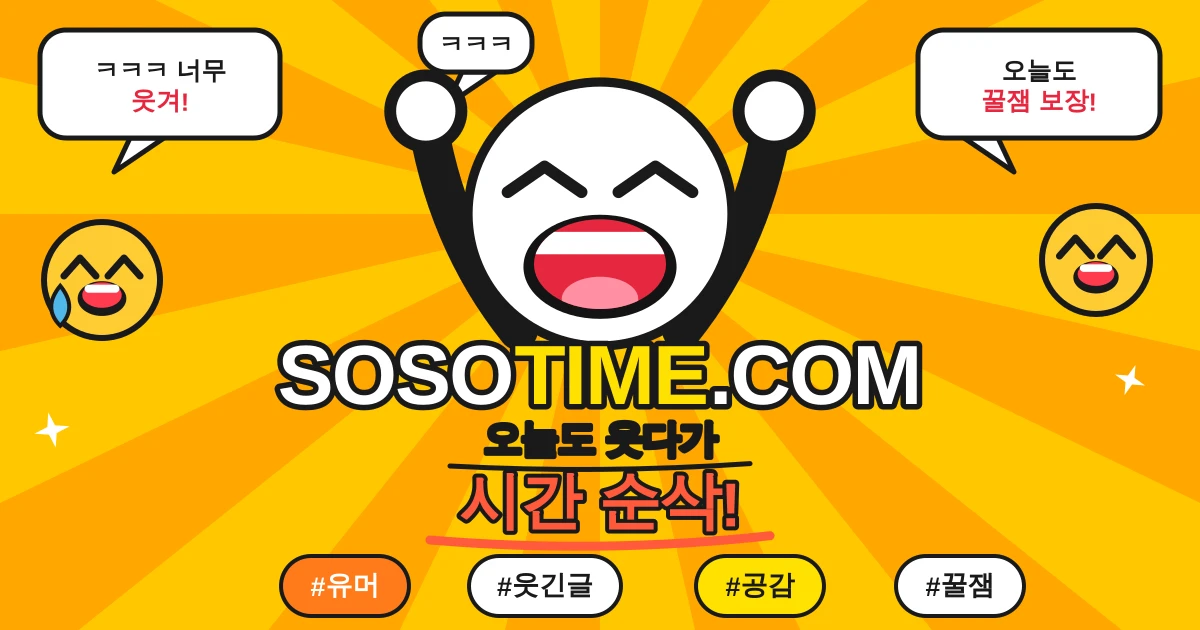
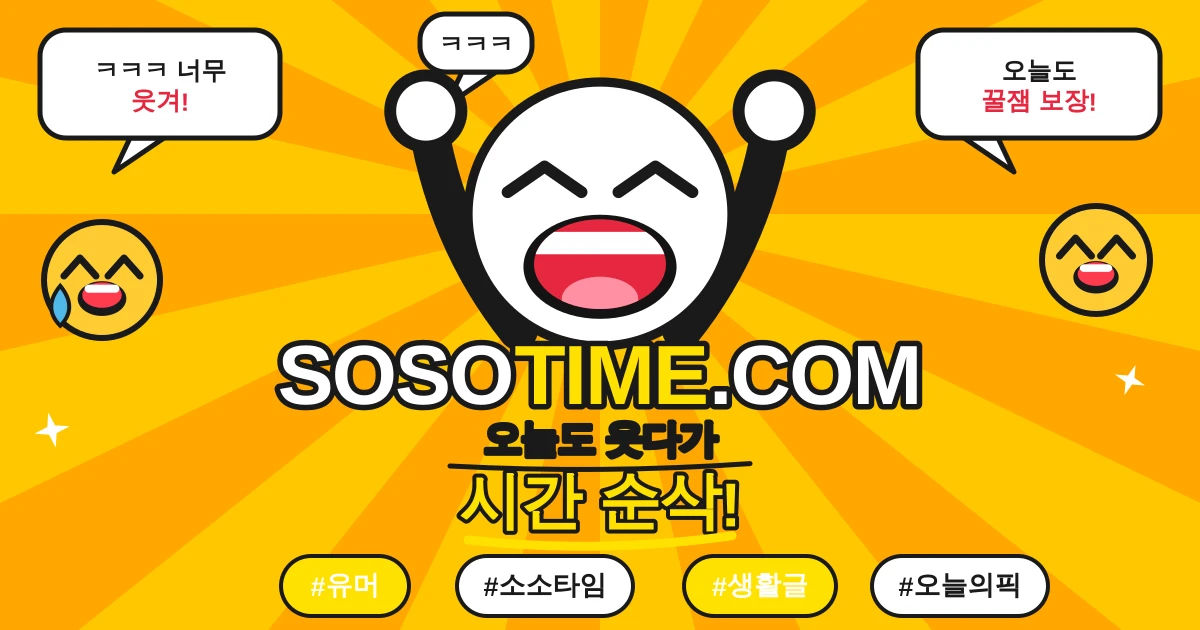
카테고리별 OG 이미지 5종 추가 (#3)
buildComicBanner를 accent/문구를 받는 파라미터 방식으로 바꾸고,
categoryMeta의 accent 색상으로 카테고리별 OG 이미지(og-{category}.webp)를
생성해 카테고리 페이지에 연결. SNS 공유 시 해당 카테고리 색상과
문구(라벨 + blurb)가 보이도록 함. 태그 페이지는 기존 공용 OG 이미지 유지.

Changed region(s): [[0.3392, 0.754, 0.8942, 0.9952], [0.2158, 0.8746, 0.3392, 0.9952]]

diff --git a/scripts/generate-site-images.js b/scripts/generate-site-images.js
@@ -1,6 +1,7 @@
 import { mkdir, writeFile } from "node:fs/promises";
 import sharp from "sharp";
 import { buildMascot } from "./lib/mascot.js";
+import { categoryMeta } from "./site-helpers.js";
 
 const outputDir = "public/assets/site";
 
@@ -19,10 +20,19 @@ await sharp(faviconBuffer).resize(16, 16).png().toFile(`${outputDir}/favicon-16.
 await sharp(faviconBuffer).resize(180, 180).png().toFile(`${outputDir}/apple-touch-icon.png`);
 
 const ogSvg = buildComicBanner();
-
 await sharp(Buffer.from(ogSvg)).webp({ quality: 90 }).toFile(`${outputDir}/og-image.webp`);
 
-console.log("Generated site favicon and OG image assets");
+for (const [category, meta] of Object.entries(categoryMeta)) {
+  const categorySvg = buildComicBanner({
+    accent: meta.accent,
+    taglineTop: `${meta.label} 카테고리`,
+    taglineBottom: meta.blurb,
+    tagLabel: meta.label,
+  });
+  await sharp(Buffer.from(categorySvg)).webp({ quality: 90 }).toFile(`${outputDir}/og-${category}.webp`);
+}
+
+console.log(`Generated site favicon, OG image, and ${Object.keys(categoryMeta).length} category OG images`);
 
 function buildSunburst(cx, cy, rInner, rOuter, count, colorA, colorB) {
   const wedges = [];
@@ -110,12 +120,19 @@ function underline(cx, y, width, thickness, color) {
   return `<path d="M ${x1.toFixed(1)} ${y.toFixed(1)} Q ${cx.toFixed(1)} ${(y + dip).toFixed(1)} ${x2.toFixed(1)} ${(y - dip * 0.3).toFixed(1)}" stroke="${color}" stroke-width="${thickness}" fill="none" stroke-linecap="round" />`;
 }
 
-function buildComicBanner() {
+function buildComicBanner({
+  accent = "#ffe000",
+  taglineTop = "오늘도 웃다가",
+  taglineBottom = "시간 순삭!",
+  tagLabel = "유머",
+} = {}) {
   const width = 1200;
   const height = 630;
   const cx = 600;
   const cy = 214;
   const faceR = 132;
+  const bottomFontSize = taglineBottom.length > 7 ? 40 : 62;
+  const bottomUnderlineWidth = Math.min(560, taglineBottom.length * 34 + 60);
 
   const sunburst = buildSunburst(cx, cy, 60, 900, 28, "#ffc700", "#ffa700");
   const stars = [
@@ -131,26 +148,26 @@ function buildComicBanner() {
     404,
     [
       { text: "SOSO", color: "#ffffff" },
-      { text: "TIME", color: "#ffe000" },
+      { text: "TIME", color: accent },
       { text: ".COM", color: "#ffffff" },
     ],
     { fontSize: 84, spacing: -2 },
   );
 
-  const taglineLine1 = outlinedText(cx, 452, [{ text: "오늘도 웃다가", color: "#1a1a1a" }], { fontSize: 38, weight: 800, spacing: -1 });
-  const taglineLine2 = outlinedText(cx, 522, [{ text: "시간 순삭!", color: "#ff5a3c" }], { fontSize: 62, weight: 900, spacing: -1 });
+  const taglineLine1 = outlinedText(cx, 452, [{ text: taglineTop, color: "#1a1a1a" }], { fontSize: 38, weight: 800, spacing: -1 });
+  const taglineLine2 = outlinedText(cx, 522, [{ text: taglineBottom, color: accent }], { fontSize: bottomFontSize, weight: 900, spacing: -1 });
   const tagline = `<g>
     ${taglineLine1}
     ${underline(cx, 466, 300, 5, "#1a1a1a")}
     ${taglineLine2}
-    ${underline(cx, 540, 340, 9, "#ff5a3c")}
+    ${underline(cx, 540, bottomUnderlineWidth, 9, accent)}
   </g>`;
 
   const pills = [
-    hashtagPill(345, 556, "#유머", "#ff7a1a", "#ffffff"),
-    hashtagPill(545, 556, "#웃긴글", "#ffffff", "#1a1a1a"),
-    hashtagPill(760, 556, "#공감", "#ffe000", "#1a1a1a"),
-    hashtagPill(960, 556, "#꿀잼", "#ffffff", "#1a1a1a"),
+    hashtagPill(345, 556, `#${tagLabel}`, accent, "#ffffff"),
+    hashtagPill(545, 556, "#소소타임", "#ffffff", "#1a1a1a"),
+    hashtagPill(760, 556, "#생활글", accent, "#ffffff"),
+    hashtagPill(960, 556, "#오늘의픽", "#ffffff", "#1a1a1a"),
   ].join("");
 
   const bubbles = [

diff --git a/public/category/issue/index.html b/public/category/issue/index.html
@@ -18,11 +18,11 @@
     <meta property="og:title" content="이야기 글 모음 | 소소타임" />
     <meta property="og:description" content="이야기 카테고리에서 생활 속 장면을 차분하게 풀어낸 글을 모았습니다." />
     <meta property="og:url" content="https://sosotime.com/category/issue/" />
-    <meta property="og:image" content="https://sosotime.com/assets/site/og-image.webp" />
+    <meta property="og:image" content="https://sosotime.com/assets/site/og-issue.webp" />
     <meta name="twitter:card" content="summary_large_image" />
     <meta name="twitter:title" content="이야기 글 모음 | 소소타임" />
     <meta name="twitter:description" content="이야기 카테고리에서 생활 속 장면을 차분하게 풀어낸 글을 모았습니다." />
-    <meta name="twitter:image" content="https://sosotime.com/assets/site/og-image.webp" />
+    <meta name="twitter:image" content="https://sosotime.com/assets/site/og-issue.webp" />
     <script async src="https://pagead2.googlesyndication.com/pagead/js/adsbygoogle.js?client=ca-pub-5804969457082424" crossorigin="anonymous"></script>
     <script type="application/ld+json">{"@context":"https://schema.org","@type":"CollectionPage","name":"이야기 글 모음","description":"이야기 카테고리는 온라인에서 화제가 된 장면을 그대로 따라가기보다, 왜 사람들이 그 지점에서 멈춰 서서 말하게 되는지 해석해 보는 공간입니다. 반응이 빨리 붙는 이슈일수록 단정적인 판단보다 장면의 조건과 받아들이는 방식이 더 중요합니다. 그래서 자극적인 결론 대신, 읽는 사람이 스스로 맥락을 분리해 볼 수 있도록 생활 언어로 다시 정리합니다.","url":"https://sosotime.com/category/issue/"}</script>
   </head>

diff --git a/public/category/empathy/index.html b/public/category/empathy/index.html
@@ -18,11 +18,11 @@
     <meta property="og:title" content="공감 글 모음 | 소소타임" />
     <meta property="og:description" content="공감 카테고리에서 생활 속 장면을 차분하게 풀어낸 글을 모았습니다." />
     <meta property="og:url" content="https://sosotime.com/category/empathy/" />
-    <meta property="og:image" content="https://sosotime.com/assets/site/og-image.webp" />
+    <meta property="og:image" content="https://sosotime.com/assets/site/og-empathy.webp" />
     <meta name="twitter:card" content="summary_large_image" />
     <meta name="twitter:title" content="공감 글 모음 | 소소타임" />
     <meta name="twitter:description" content="공감 카테고리에서 생활 속 장면을 차분하게 풀어낸 글을 모았습니다." />
-    <meta name="twitter:image" content="https://sosotime.com/assets/site/og-image.webp" />
+    <meta name="twitter:image" content="https://sosotime.com/assets/site/og-empathy.webp" />
     <script async src="https://pagead2.googlesyndication.com/pagead/js/adsbygoogle.js?client=ca-pub-5804969457082424" crossorigin="anonymous"></script>
     <script type="application/ld+json">{"@context":"https://schema.org","@type":"CollectionPage","name":"공감 글 모음","description":"공감 카테고리는 별일 아닌데 이상하게 오래 기억나는 순간들을 다룹니다. 출근길, 집에 돌아온 저녁, 반려동물과 보내는 시간처럼 큰 사건은 아니어도 누구에게나 자기 이야기를 겹쳐 볼 틈이 있는 장면을 고릅니다. 읽고 나서 정보를 외우는 대신 '나도 비슷했다'는 감각이 남도록, 감정의 흐름과 생활 감각을 구체적으로 풀어 쓰는 데 집중합니다.","url":"https://sosotime.com/category/empathy/"}</script>
   </head>

diff --git a/public/category/funny/index.html b/public/category/funny/index.html
@@ -18,11 +18,11 @@
     <meta property="og:title" content="웃음 글 모음 | 소소타임" />
     <meta property="og:description" content="웃음 카테고리에서 생활 속 장면을 차분하게 풀어낸 글을 모았습니다." />
     <meta property="og:url" content="https://sosotime.com/category/funny/" />
-    <meta property="og:image" content="https://sosotime.com/assets/site/og-image.webp" />
+    <meta property="og:image" content="https://sosotime.com/assets/site/og-funny.webp" />
     <meta name="twitter:card" content="summary_large_image" />
     <meta name="twitter:title" content="웃음 글 모음 | 소소타임" />
     <meta name="twitter:description" content="웃음 카테고리에서 생활 속 장면을 차분하게 풀어낸 글을 모았습니다." />
-    <meta name="twitter:image" content="https://sosotime.com/assets/site/og-image.webp" />
+    <meta name="twitter:image" content="https://sosotime.com/assets/site/og-funny.webp" />
     <script async src="https://pagead2.googlesyndication.com/pagead/js/adsbygoogle.js?client=ca-pub-5804969457082424" crossorigin="anonymous"></script>
     <script type="application/ld+json">{"@context":"https://schema.org","@type":"CollectionPage","name":"웃음 글 모음","description":"웃음 카테고리는 하루 중 딱 한 번이라도 피식하게 만드는 생활 장면을 모읍니다. 누군가를 놀리거나 과장된 자극을 쫓기보다, 우리 모두 한 번쯤 겪었을 법한 민망함과 타이밍의 어긋남에서 웃음이 어떻게 생기는지 풀어냅니다. 짧은 해프닝도 맥락을 살려 읽으면 훨씬 오래 남기 때문에, 제목보다 장면과 감정의 결을 차분하게 짚는 글을 중심에 둡니다.","url":"https://sosotime.com/category/funny/"}</script>
   </head>

diff --git a/public/category/info/index.html b/public/category/info/index.html
@@ -18,11 +18,11 @@
     <meta property="og:title" content="정보 글 모음 | 소소타임" />
     <meta property="og:description" content="정보 카테고리에서 생활 속 장면을 차분하게 풀어낸 글을 모았습니다." />
     <meta property="og:url" content="https://sosotime.com/category/info/" />
-    <meta property="og:image" content="https://sosotime.com/assets/site/og-image.webp" />
+    <meta property="og:image" content="https://sosotime.com/assets/site/og-info.webp" />
     <meta name="twitter:card" content="summary_large_image" />
     <meta name="twitter:title" content="정보 글 모음 | 소소타임" />
     <meta name="twitter:description" content="정보 카테고리에서 생활 속 장면을 차분하게 풀어낸 글을 모았습니다." />
-    <meta name="twitter:image" content="https://sosotime.com/assets/site/og-image.webp" />
+    <meta name="twitter:image" content="https://sosotime.com/assets/site/og-info.webp" />
     <script async src="https://pagead2.googlesyndication.com/pagead/js/adsbygoogle.js?client=ca-pub-5804969457082424" crossorigin="anonymous"></script>
     <script type="application/ld+json">{"@context":"https://schema.org","@type":"CollectionPage","name":"정보 글 모음","description":"정보 카테고리는 생활에 바로 닿는 판단 기준을 가볍지만 빈약하지 않게 설명합니다. 제품 후기나 서비스 안내, 계절 이슈처럼 누구나 한 번쯤 마주치는 소재를 다루되 숫자나 문구를 그대로 나열하지 않고 무엇을 먼저 확인하면 덜 헷갈리는지에 초점을 맞춥니다. 읽고 나면 '그래서 나는 무엇부터 보면 되는가'가 남도록 구성한 글만 모아 둡니다.","url":"https://sosotime.com/category/info/"}</script>
   </head>

diff --git a/public/category/life/index.html b/public/category/life/index.html
@@ -18,11 +18,11 @@
     <meta property="og:title" content="생활 글 모음 | 소소타임" />
     <meta property="og:description" content="생활 카테고리에서 생활 속 장면을 차분하게 풀어낸 글을 모았습니다." />
     <meta property="og:url" content="https://sosotime.com/category/life/" />
-    <meta property="og:image" content="https://sosotime.com/assets/site/og-image.webp" />
+    <meta property="og:image" content="https://sosotime.com/assets/site/og-life.webp" />
     <meta name="twitter:card" content="summary_large_image" />
     <meta name="twitter:title" content="생활 글 모음 | 소소타임" />
     <meta name="twitter:description" content="생활 카테고리에서 생활 속 장면을 차분하게 풀어낸 글을 모았습니다." />
-    <meta name="twitter:image" content="https://sosotime.com/assets/site/og-image.webp" />
+    <meta name="twitter:image" content="https://sosotime.com/assets/site/og-life.webp" />
     <script async src="https://pagead2.googlesyndication.com/pagead/js/adsbygoogle.js?client=ca-pub-5804969457082424" crossorigin="anonymous"></script>
     <script type="application/ld+json">{"@context":"https://schema.org","@type":"CollectionPage","name":"생활 글 모음","description":"생활 카테고리는 일상에서 바로 써먹을 수 있는 작은 기준을 다룹니다. 출근길 동선, 공공장소의 눈치, 더운 날과 늦은 밤의 생활 리듬처럼 사소하지만 반복되는 문제를 다루기 때문에 한 번 읽고 지나가도 실제 선택에 남는 것이 있어야 합니다. 거창한 팁보다도 상황을 읽는 법과 스스로 조절할 수 있는 기준을 차분하게 정리합니다.","url":"https://sosotime.com/category/life/"}</script>
   </head>

diff --git a/scripts/generate-static-pages.js b/scripts/generate-static-pages.js
@@ -36,6 +36,7 @@ for (const [category, meta] of Object.entries(categoryMeta)) {
     heading: `${meta.label} - 생활 속에서 오래 남는 장면들`,
     intro: meta.intro,
     currentPath: `/category/${category}/`,
+    image: `/assets/site/og-${category}.webp`,
     posts: items,
     jsonLd: {
       "@context": "https://schema.org",
@@ -155,11 +156,11 @@ for (const page of staticPages) {
 
 console.log(`Generated static pages, ${Object.keys(categoryMeta).length} categories, ${eligibleTags.length} tags, author page, RSS, redirects, and 404`);
 
-function renderCollectionPage({ title, description, canonicalPath, heading, intro, currentPath, posts, jsonLd }) {
+function renderCollectionPage({ title, description, canonicalPath, heading, intro, currentPath, posts, jsonLd, image }) {
   return `<!doctype html>
 <html lang="ko">
   <head>
-${renderHead({ title, description, canonicalPath, jsonLd })}
+${renderHead({ title, description, canonicalPath, jsonLd, image })}
   </head>
   <body>
     ${renderSiteHeader({ currentPath })}
